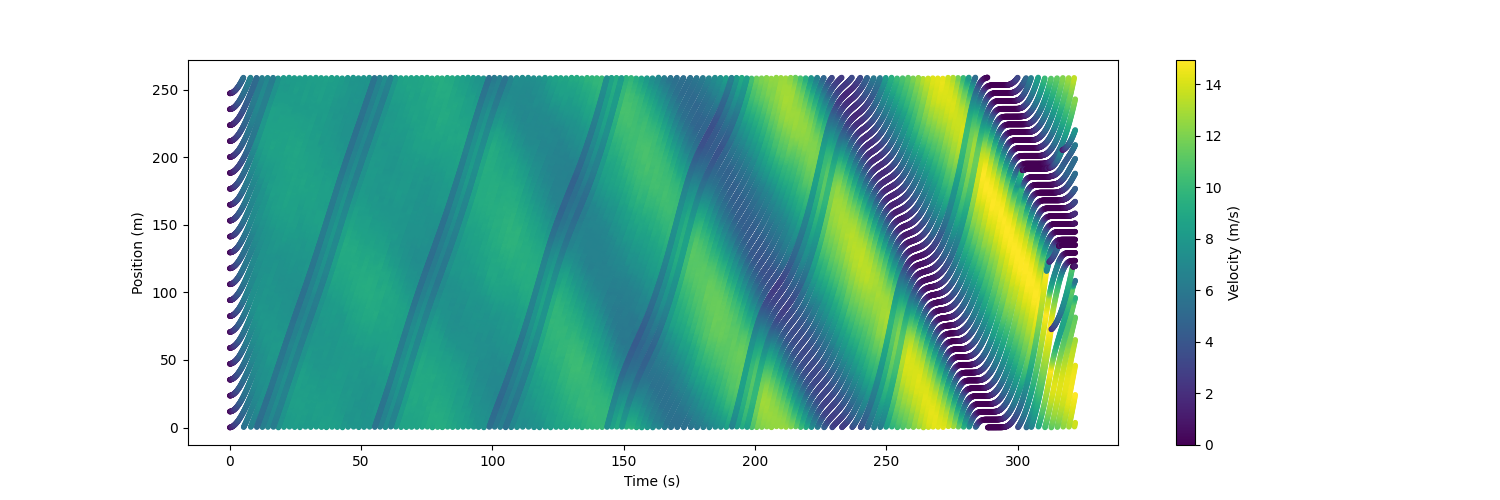
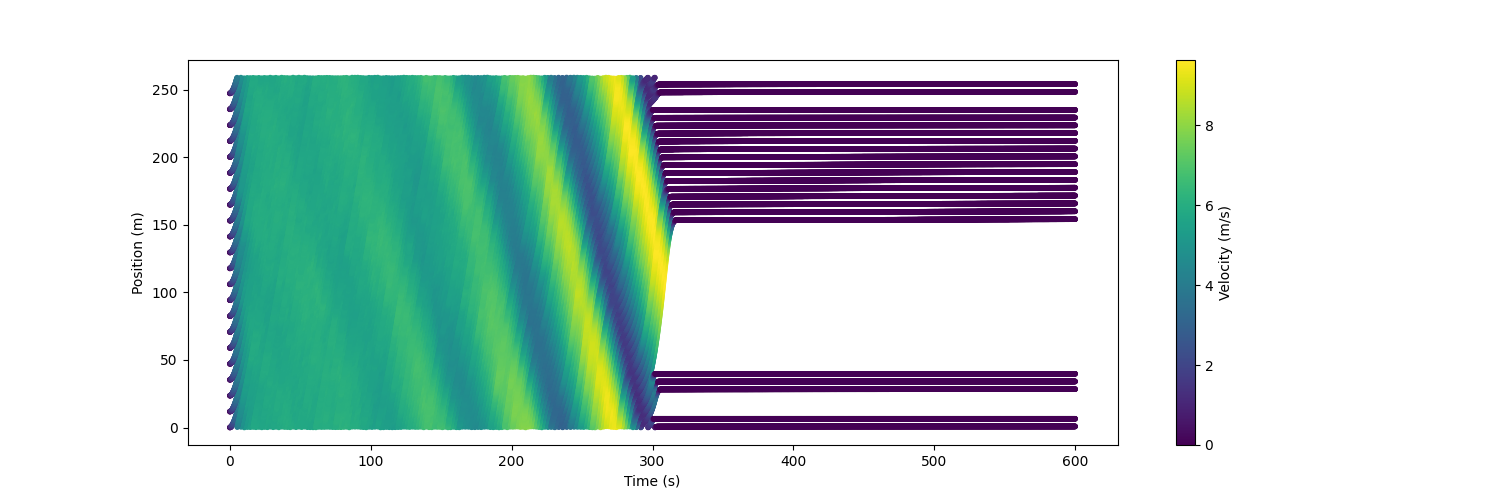
vdn config change

diff --git a/Ring_Road/envs/multiagent_ringroad.py b/Ring_Road/envs/multiagent_ringroad.py
@@ -162,15 +162,27 @@ class MultiAgentRingRoad(MultiAgentEnv):
         eta_2 = 4.
         reward = self.state_extractor.get_average_vel() / 5
 
+
+        action_dict = {}
+        for ag_id, action in action.items():
+            if action == 0:
+                action_dict[ag_id] = 1
+            else:
+                action_dict[ag_id] = -2
+
         # punish accelerations (should lead to reduced stop-and-go waves)
         eta = 0.25  # 0.25
-        mean_actions = eta * np.mean(np.abs(list(action.values())))
+        mean_actions = eta * np.mean(np.abs(list(action_dict.values())))
         accel_threshold = 0
 
         if mean_actions > accel_threshold:
             reward += eta * (accel_threshold - mean_actions)
 
-        return {ag_id: reward for ag_id in action.keys()}
+        rew = {ag_id: reward for ag_id in action.keys()}
+        for ag_id, agent in self.agents.items():
+            if agent.v == 0:
+                rew[ag_id] = -5
+        return rew
 
     def _destroy(self):
         self.env_veh.clear()

diff --git a/main.py b/main.py
@@ -31,7 +31,7 @@ def main():
 
     elif args.type == "multiagent_qmix_eval":
         scripts.multiagent_train_ppo.evaluate_qmix(
-            "/home/vamsi/Documents/GitHub/RingRoad-RL/Models/VDN/QMIX/QMIX_grouped_ringroad_af722_00000_0_2022-05-03_19-25-26/checkpoint_000020/checkpoint-20", mixer)
+            "/home/vamsi/Documents/GitHub/RingRoad-RL/Models/VDN/QMIX/QMIX_grouped_ringroad_c356c_00000_0_2022-05-03_18-21-34/checkpoint_000084/checkpoint-84", mixer)
     elif args.type == "eval_idm":
         scripts.evaluate_idm.evaluate()
 
